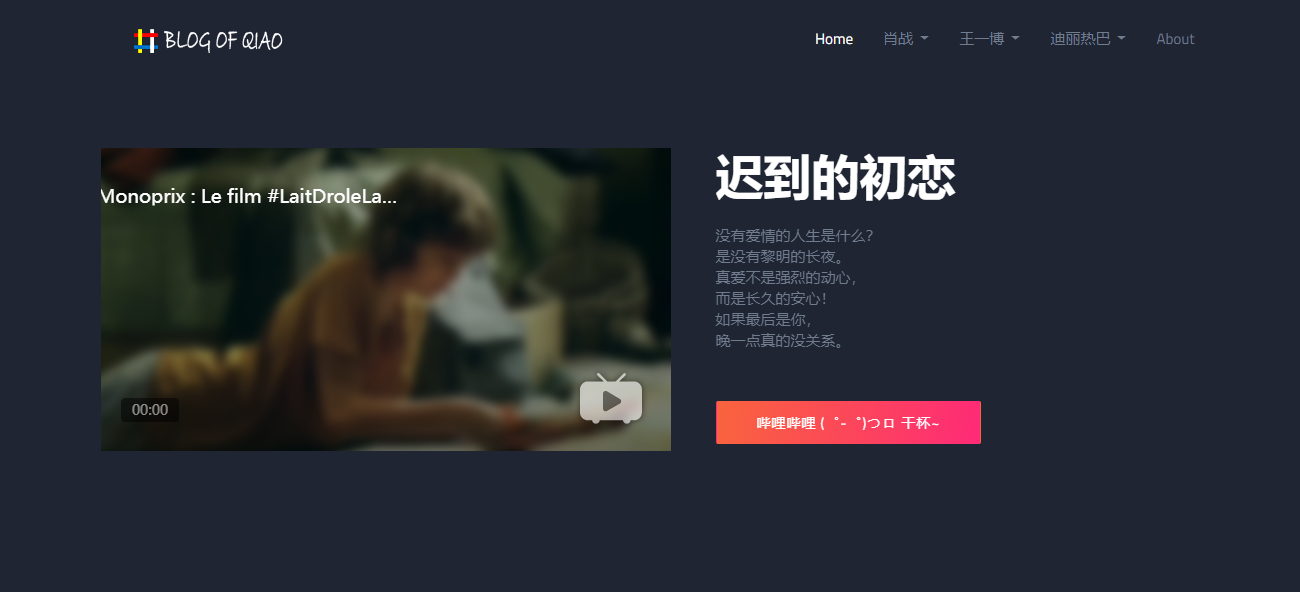
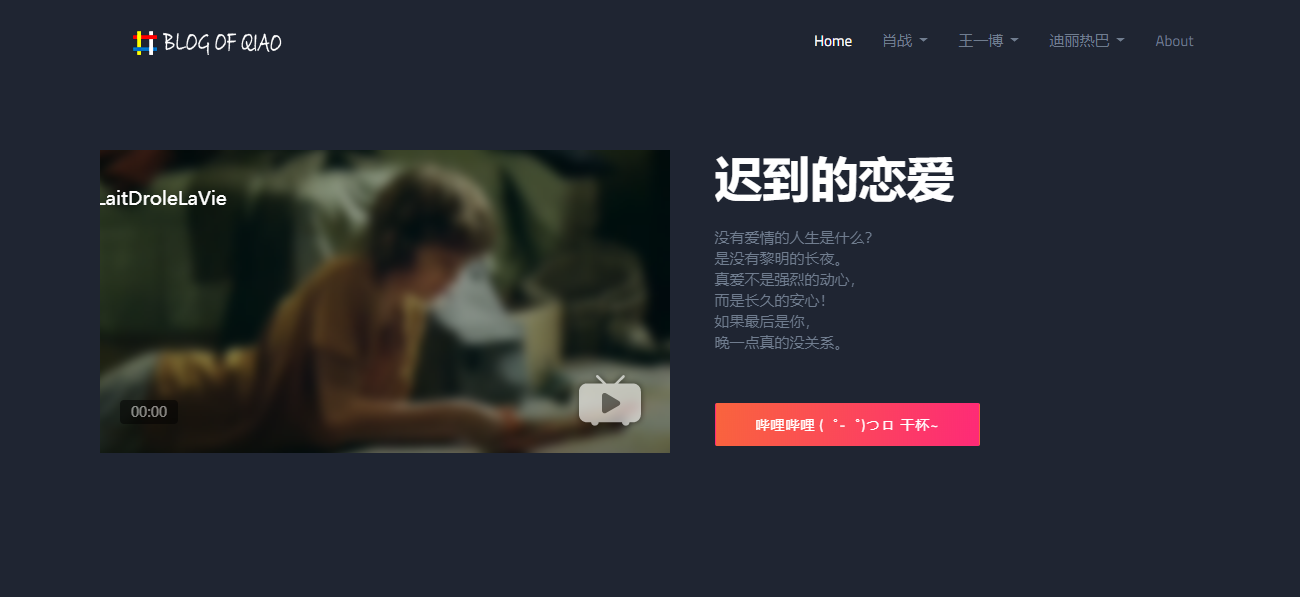
修改图片

diff --git a/index.html b/index.html
@@ -148,7 +148,7 @@ Welcome Slider
 			</div>
 			<div class="col-lg-6">
 				<div class="block">
-					<h2>迟到的初恋</h2>
+					<h2>迟到的恋爱</h2>
 					<p>没有爱情的人生是什么？<br>
 						是没有黎明的长夜。<br>
 						真爱不是强烈的动心，<br>
